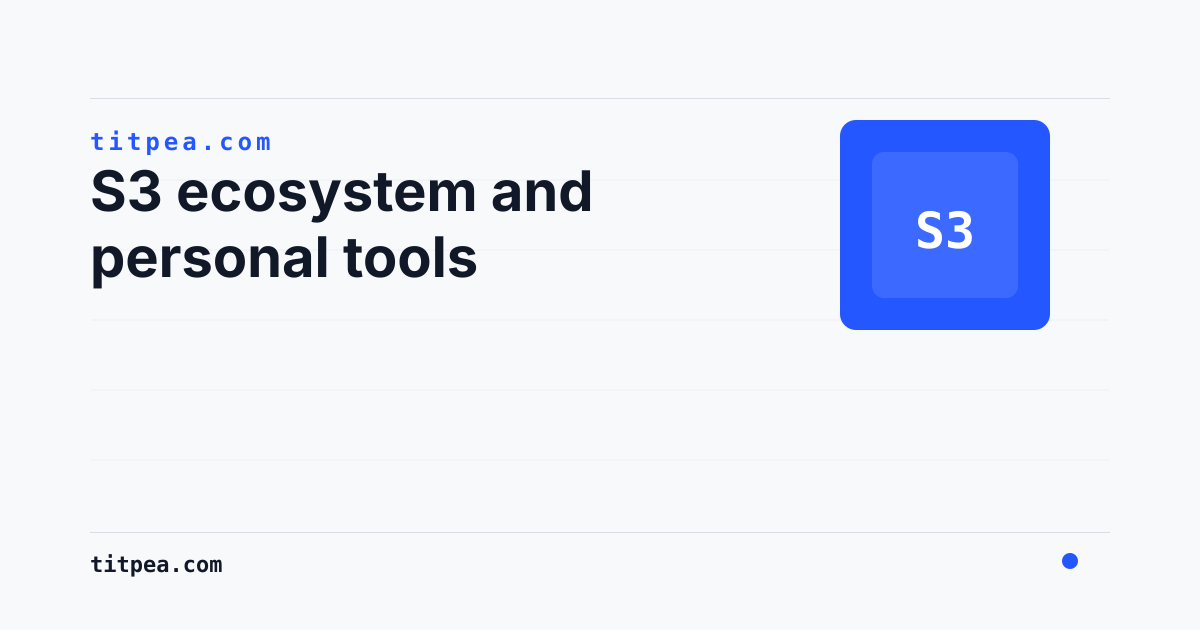
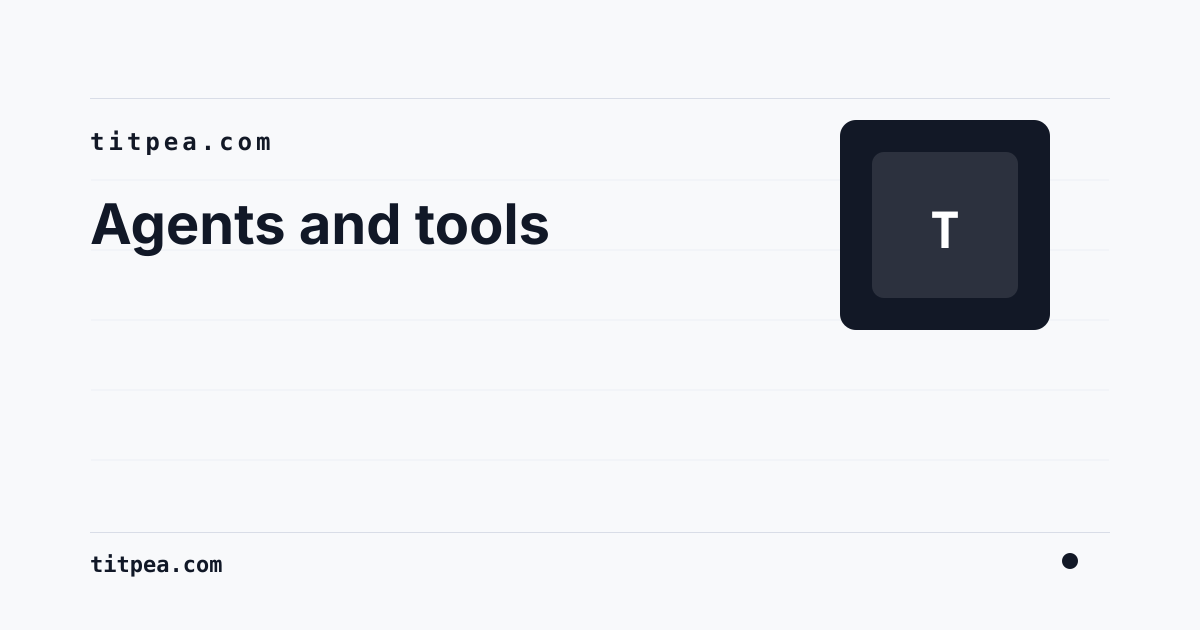
Make the homepage first screen the featured pair
Drop duplicate hero CTAs so Storage Agent and PageWise start the
page. Rename the catalog heading so it does not call the other
products leftovers. Style the long-page section directory as text
links instead of pills. Match the home OG title to the headline.

diff --git a/src/styles/components.css b/src/styles/components.css
@@ -59,7 +59,6 @@
 
 .button,
 .mobile-menu summary,
-.product-section-index a,
 .proof-strip span,
 .provider-list span,
 .about-contact-row a {
@@ -250,12 +249,10 @@
   display: grid;
   grid-template-columns: auto minmax(0, 1fr);
   align-items: center;
-  gap: 18px;
-  border-top: 1px solid var(--line);
+  gap: 24px;
   border-bottom: 1px solid var(--line);
-  padding-block: 14px;
+  padding-block: 6px;
   background: var(--index-veil);
-  backdrop-filter: blur(14px);
 }
 
 @media (max-width: 900px) {
@@ -263,40 +260,43 @@
     position: static;
     margin-top: -8px;
     background: transparent;
-    backdrop-filter: none;
   }
 }
 
 .product-section-index > span {
   color: var(--label);
-  font-family: var(--mono);
+  font-family: var(--sans);
   font-size: 12px;
+  font-weight: 600;
 }
 
 .product-section-index div {
   display: flex;
   flex-wrap: wrap;
   justify-content: flex-end;
-  gap: 8px;
+  gap: 4px 20px;
 }
 
 .product-section-index a {
-  border-radius: 999px;
-  padding: 6px 11px;
-  color: var(--ink);
-  font-family: var(--mono);
-  font-size: 12px;
+  display: inline-flex;
+  min-height: 44px;
+  align-items: center;
+  border-bottom: 1px solid transparent;
+  color: var(--muted);
+  font-family: var(--sans);
+  font-size: 13px;
+  font-weight: 500;
 }
 
 .product-section-index a:hover,
-.product-section-index a:focus-visible,
-.product-section-index a[aria-current] {
+.product-section-index a:focus-visible {
   border-color: var(--ink);
+  color: var(--ink);
 }
 
 .product-section-index a[aria-current] {
-  background: var(--ink);
-  color: var(--on-ink);
+  border-color: var(--ink);
+  color: var(--ink);
 }
 
 /* —— Desktop nav dropdowns —— */

diff --git a/src/content/i18n/siteCopy.ts b/src/content/i18n/siteCopy.ts
@@ -8,7 +8,7 @@ export const ui = {
     featuredLabel: "Featured",
     featuredTitle: "Agents for different kinds of work",
     moreToolsLabel: "More",
-    moreToolsTitle: "The rest of the catalog",
+    moreToolsTitle: "CLI, extensions, and apps",
     lineStorageLabel: "Storage",
     linePersonalLabel: "Tools",
     aboutTitle: "About",
@@ -52,7 +52,7 @@ export const ui = {
     featuredLabel: "重点",
     featuredTitle: "不同方向的 Agent",
     moreToolsLabel: "其他",
-    moreToolsTitle: "其余产品",
+    moreToolsTitle: "命令行、扩展与应用",
     lineStorageLabel: "存储",
     linePersonalLabel: "工具",
     aboutTitle: "关于",

diff --git a/src/styles/home-about.css b/src/styles/home-about.css
@@ -5,7 +5,15 @@
   grid-template-columns: 1fr;
   gap: 48px;
   align-items: center;
+}
+
+.about-hero,
+.product-hero {
   padding: 80px 0 56px;
+}
+
+.home-hero {
+  padding: 56px 0 20px;
 }
 
 .product-hero {
@@ -38,7 +46,6 @@
   margin-inline: 0;
 }
 
-.home-hero .actions,
 .about-hero .actions,
 .product-hero .actions {
   justify-content: flex-start;
@@ -75,7 +82,6 @@
   line-height: 1.62;
 }
 
-.home-evidence,
 .home-more-tools,
 .about-focus-section,
 .about-defaults {
@@ -86,6 +92,8 @@
 
 .home-evidence {
   display: block;
+  padding-top: 12px;
+  padding-bottom: 64px;
 }
 
 .home-evidence-grid {

diff --git a/src/styles/responsive.css b/src/styles/responsive.css
@@ -21,8 +21,17 @@
   .about-hero,
   .product-hero {
     gap: 42px;
+  }
+
+  .about-hero,
+  .product-hero {
     padding-top: 54px;
     padding-bottom: 54px;
+  }
+
+  .home-hero {
+    padding-top: 36px;
+    padding-bottom: 12px;
   }
 
   .product-hero,
@@ -112,7 +121,7 @@
     grid-template-columns: 1fr;
     gap: 0;
     width: 100%;
-    padding: 9px 16px;
+    padding: 4px 0;
   }
 
   .product-section-index > span {
@@ -137,7 +146,7 @@
   .product-section-index a {
     flex: 0 0 auto;
     min-height: 44px;
-    padding: 8px 12px;
+    padding: 8px 0;
     scroll-snap-align: start;
   }
 

diff --git a/src/content/pages/home.ts b/src/content/pages/home.ts
@@ -50,18 +50,6 @@ export function buildHomePage(locale: Locale): HomePageModel {
       eyebrow: copy.productIndex,
       title: copy.homeTitle,
       lead: copy.homeLead,
-      actions: [
-        {
-          label: flagship?.name ?? "Storage Agent",
-          href: flagship?.href ?? catalog.featuredProductPath,
-          style: "primary",
-        },
-        {
-          label: personalFlagship?.name ?? "PageWise",
-          href: personalFlagship?.href ?? pathFor(locale, "pagewise"),
-          style: "ghost",
-        },
-      ],
     },
     featured: {
       label: copy.featuredLabel,

diff --git a/src/content/pages/types.ts b/src/content/pages/types.ts
@@ -44,7 +44,6 @@ export type HomePageModel = BasePageModel & {
     eyebrow: string;
     title: string;
     lead: string;
-    actions: Array<{ label: string; href: string; style: "primary" | "ghost"; external?: boolean }>;
   };
   featured: {
     label: string;

diff --git a/DESIGN.md b/DESIGN.md
@@ -18,7 +18,7 @@ Titpea is a concise personal product site. Its design should make each tool easi
 
 - A product page should earn every section. Prefer a short sequence of product-specific evidence over a fixed template with repeated claims.
 - For core tools, the usual shape is: what the tool changes, how it works, and what remains after the run. FAQ is for adoption blockers, not a second feature list.
-- Keep the section directory for long desktop product pages only. On mobile it is a normal, horizontally scrollable directory rather than a sticky control.
+- Keep the section directory for long desktop product pages only. Style it as a text directory, not a row of pills. On mobile it is a normal, horizontally scrollable directory rather than a sticky control.
 - Use one source of truth for each product fact. Repeating a claim in the hero, proof strip, body, and FAQ weakens the page instead of strengthening it.
 
 ## Typography And Copy
@@ -28,12 +28,12 @@ Titpea is a concise personal product site. Its design should make each tool easi
 - Hero headings should normally fit in one or two lines. Shorten copy before shrinking the type.
 - Product descriptions should be compact and factual. Avoid generic phrases that could describe any developer tool.
 - Chinese copy should read as natural technical Chinese. Keep command names and established terms such as `skill` and `trace` when translation reduces clarity.
-- `mono` is for labels, eyebrows, meta, and commands. Navigation, buttons, footer, menu group titles, and catalog roles use `sans`. Navigation group labels stay short.
+- `mono` is for labels, eyebrows, meta, and commands. Navigation, buttons, footer, menu group titles, catalog roles, and the product section directory use `sans`. Navigation group labels stay short.
 
 ## Visual Language
 
 - Preserve the existing light technical surface, dark ink, and restrained controls. Do not add a decorative body grid.
-- Product and About heroes are left-aligned. Captions sit below screenshots, not as overlay pills. Screenshots do not scale on hover. Featured product names outrank the catalog list. Catalog roles use sans, not uppercase mono. The remaining catalog is a two-column text list with hairline separators, not a mosaic of equal-weight cards.
+- Product and About heroes are left-aligned. Captions sit below screenshots, not as overlay pills. Screenshots do not scale on hover. The homepage first screen is the featured pair, not a slogan block with duplicate CTAs. Featured product names outrank the catalog list. Catalog roles use sans, not uppercase mono. The remaining products are a two-column text list with hairline separators, not a mosaic of equal-weight cards. The catalog heading names what is there; it does not call them leftovers.
 - Equal-weight product sections — fit and limits, features, and similar — are two-column hairline lists. Numbered workflows stay as step mosaics; charts, terminals, and the Pulse menu-bar visual keep the box that is the product. The mobile menu is a hairline list, not a 1px tile stack.
 - Hairlines should recede: borders use ink or white at low opacity, not a painted gray card frame. Product screenshots sit on a quiet shadow, not a 1px box.
 - Proof chips are optional. Short product pages should omit them when the same facts already live in the hero, workflow, or FAQ.
@@ -57,7 +57,7 @@ principle and a constraint seem to disagree, satisfy the constraint and rework t
   - Keep CSS in external stylesheets so the strict CSP never blocks an inlined `<style>`.
 - Tokens are the single source of truth
   - Spacing, radius, type size, and color come from `tokens.css`; components avoid magic numbers.
-  - `mono` is for labels, eyebrows, meta, and commands; `sans` is for headings, prose, navigation, buttons, footer, menu group titles, and catalog roles.
+  - `mono` is for labels, eyebrows, meta, and commands; `sans` is for headings, prose, navigation, buttons, footer, menu group titles, catalog roles, and the product section directory.
   - Hero headings stay within two lines.
 - Responsive
   - Breakpoints are 900px (tablet to single column) and 640px (phone).
